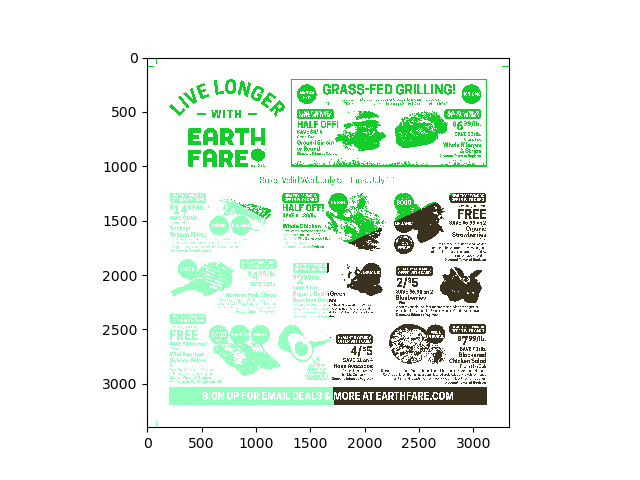
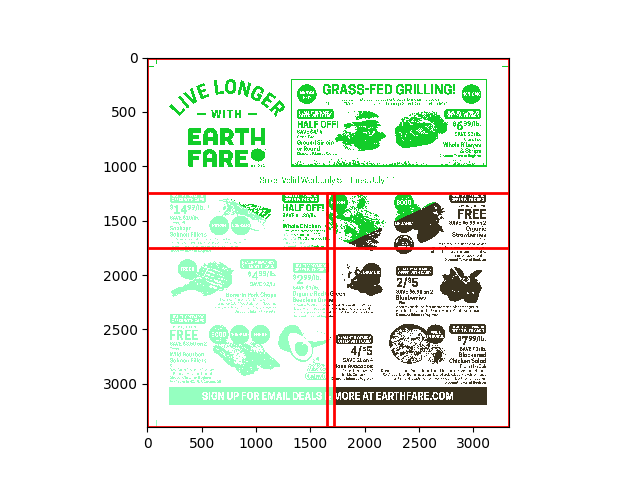
Finish masking image with red rectangles

diff --git a/code/Segmentation/4_layer_mask.py b/code/Segmentation/4_layer_mask.py
@@ -3,6 +3,8 @@ import numpy as np
 import matplotlib.pyplot as plt
 from matplotlib import cm
 import matplotlib.patches as patches
+from matplotlib.collections import PatchCollection
+from matplotlib.patches import Rectangle
 import os.path as pt
 
 COLORS = [[149, 255, 192], [58, 50, 31], [18, 205, 41], [55, 29, 86], [13, 171, 58], [87, 125, 121], [146, 178, 99], [245, 245, 17], [124, 218, 156],
@@ -53,7 +55,7 @@ for clusters in range(LOWEST_CLUSTERS, HIGHEST_CLUSTERS+1, 1):
 
     labels = labels.flatten()
 
-    
+
     # Prep plot data
     final = np.full((image[2][0], image[2][1], 3), 255)
     truthImg = np.full((image[2][0], image[2][1]), -1)
@@ -63,16 +65,20 @@ for clusters in range(LOWEST_CLUSTERS, HIGHEST_CLUSTERS+1, 1):
         truthImg[pt[0], pt[1]] = val
 
     # Plot
-    plt.axes()
-    plt.imshow(final)
+    fig, ax = plt.subplots(1)
+    ax.imshow(final)
 
     # Add rectangles
-    rect = []
+    boxes = []
     for lbl in range(0, clusters, 1):
         locs = np.where(truthImg==lbl)
         x_min, x_max, y_min, y_max = np.amin(locs[1]), np.amax(locs[1]), np.amin(locs[0]), np.amax(locs[0])
         print(x_min, x_max, y_min, y_max)
-        # rect += [patches.Rectangle((x_min,y_max), x_max - x_min, y_max - y_min, linewidth=2, edgecolor=COLORS[lbl], facecolor='none')]
+        w = np.cos
+        rect = Rectangle((x_min, y_min), x_max-x_min, y_max-y_min)
+        boxes.append(rect)
+    pc = PatchCollection(boxes, facecolor='None', edgecolor="red", linewidths=2)
+    ax.add_collection(pc)
         # plt.gca().add_patch(rect[lbl])
         # plt.show()
 
@@ -84,4 +90,3 @@ for clusters in range(LOWEST_CLUSTERS, HIGHEST_CLUSTERS+1, 1):
         currentBest = [clusters, abs(TARGET_COMPAT - compat), (labels, centers)]
 
 print("It is concluded that the best clustering is {}".format(currentBest[0]))
-

diff --git a/code/validation/validator.py b/code/validation/validator.py
@@ -1,0 +1,9 @@
+class Validator(object):
+	"""Validates a given output with a manually generated test case.
+	"""
+
+	def __init__(self, _validData):
+		self,validData = _validData
+
+	def validate_row(self, exclude=[]):
+		"""Checks to see if the row is completed while not accounting for the exclude items."""
